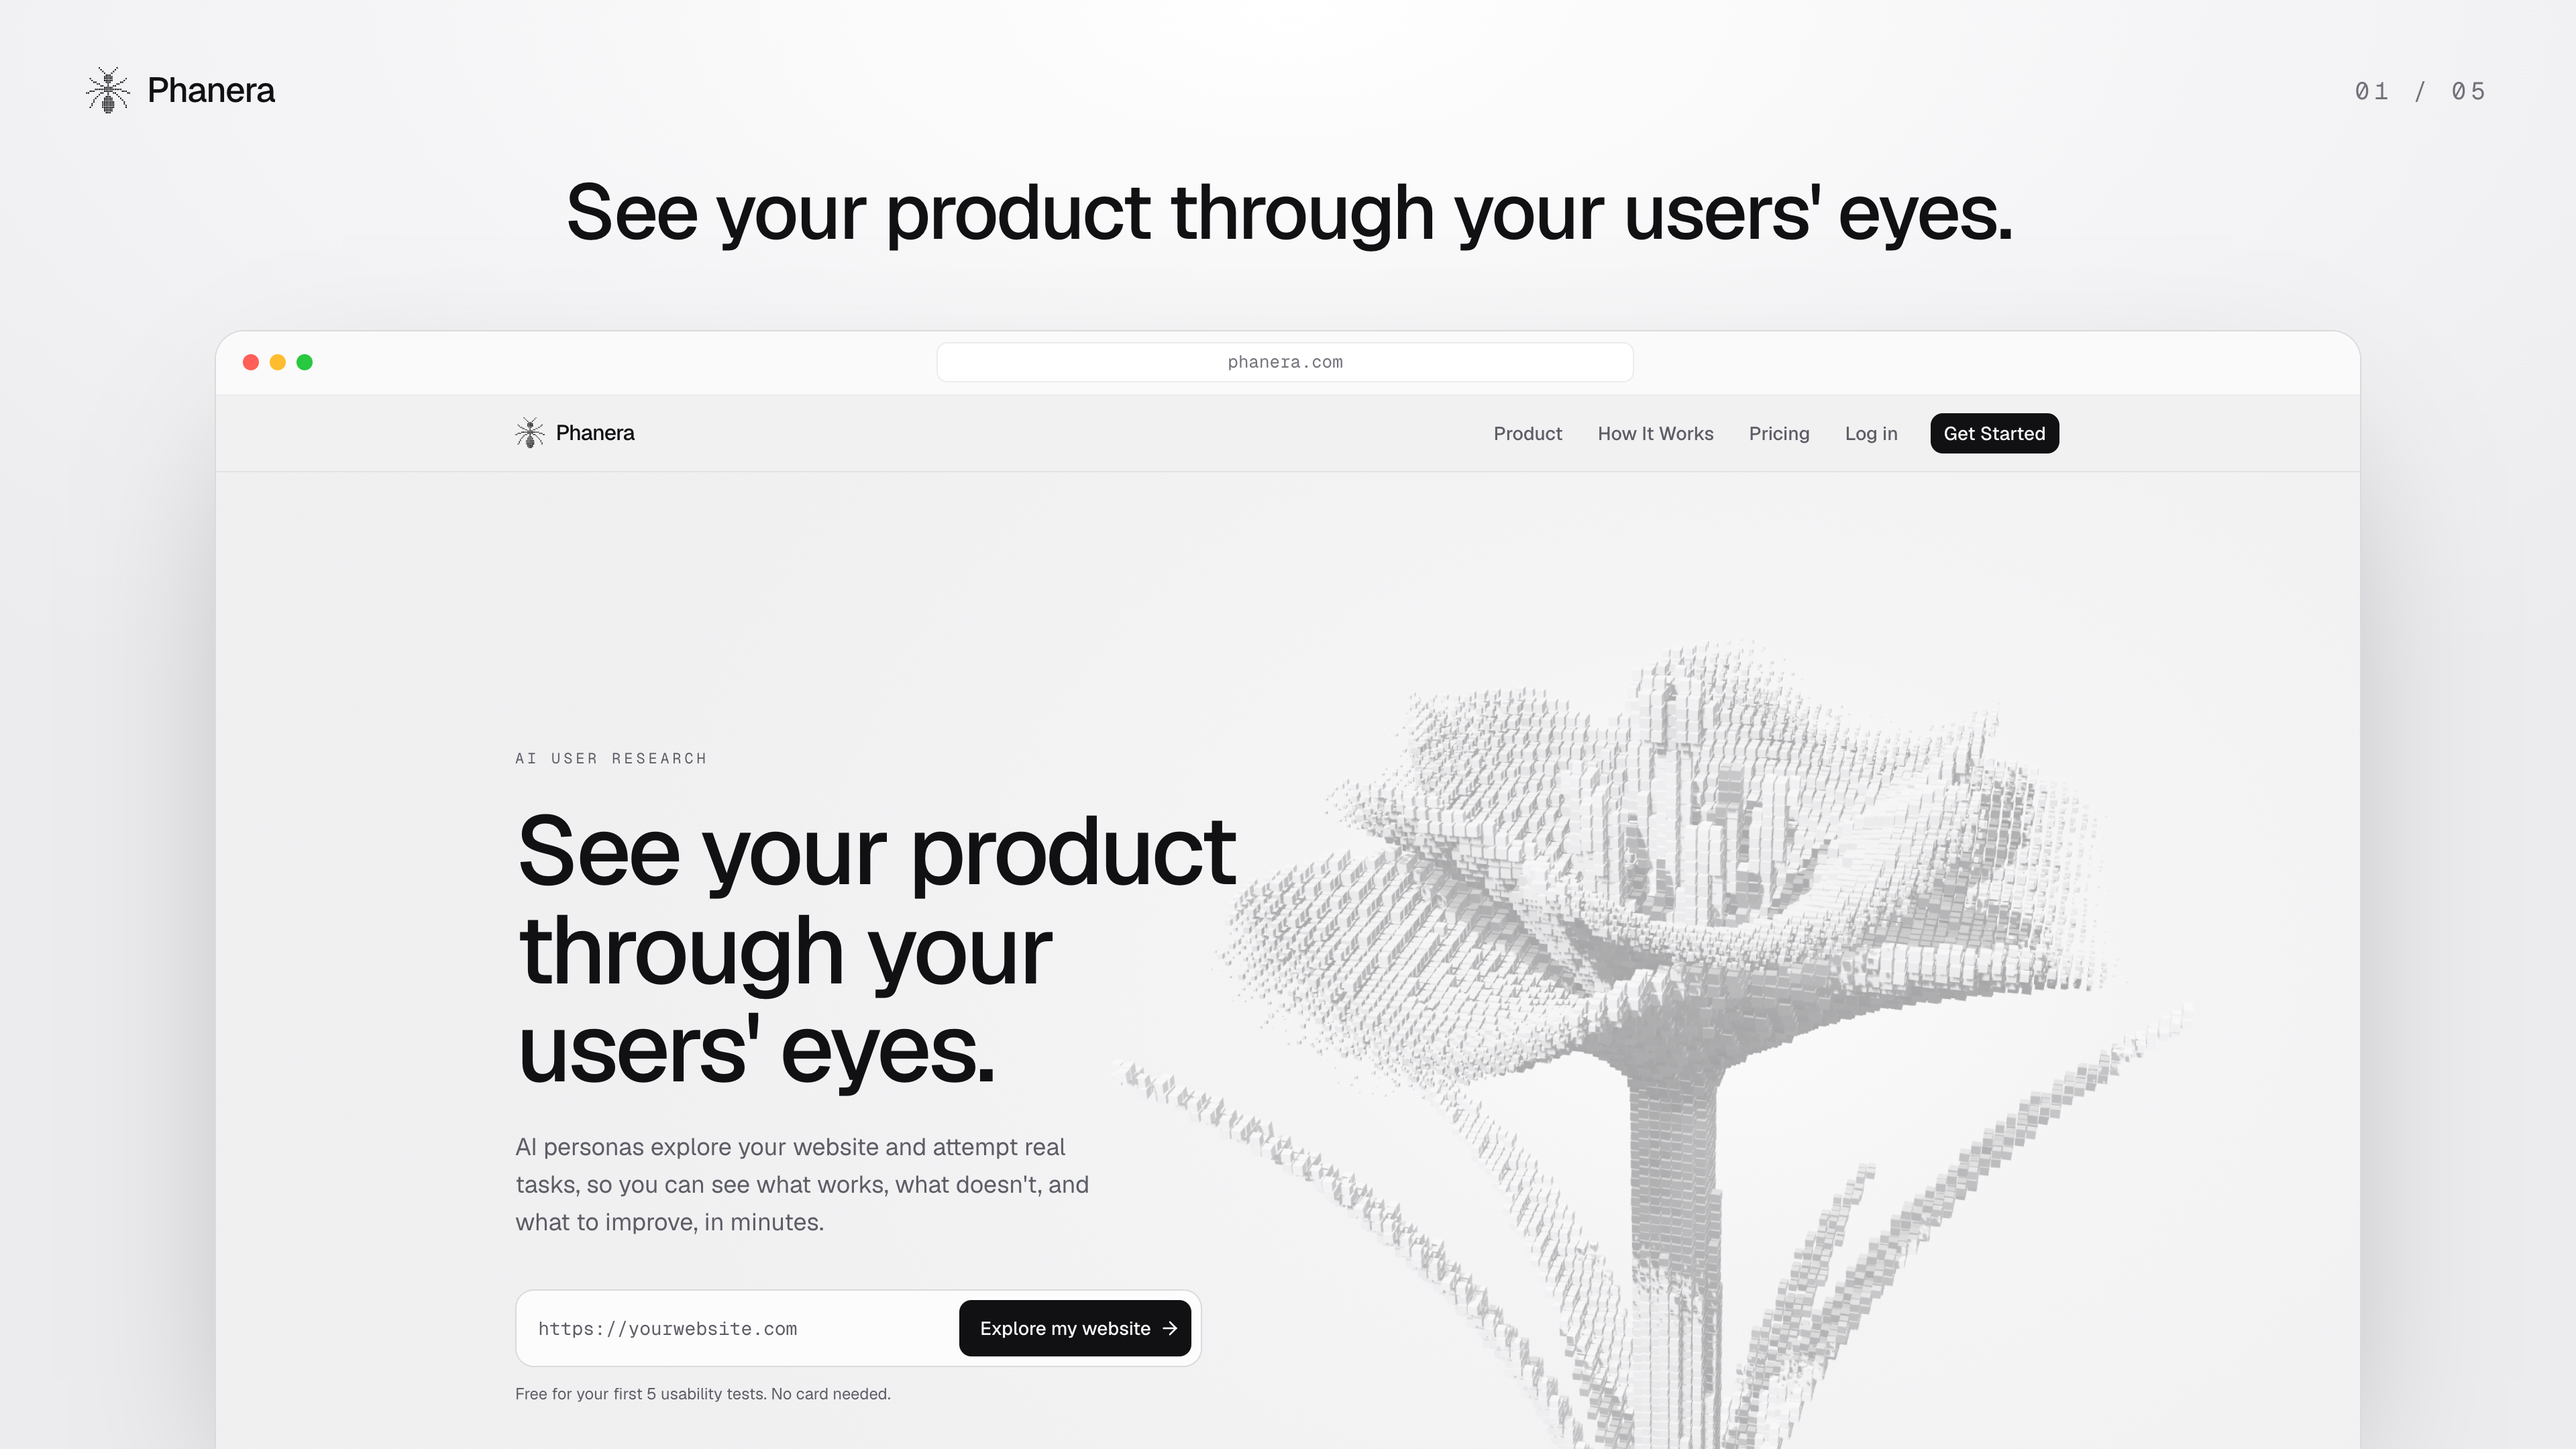
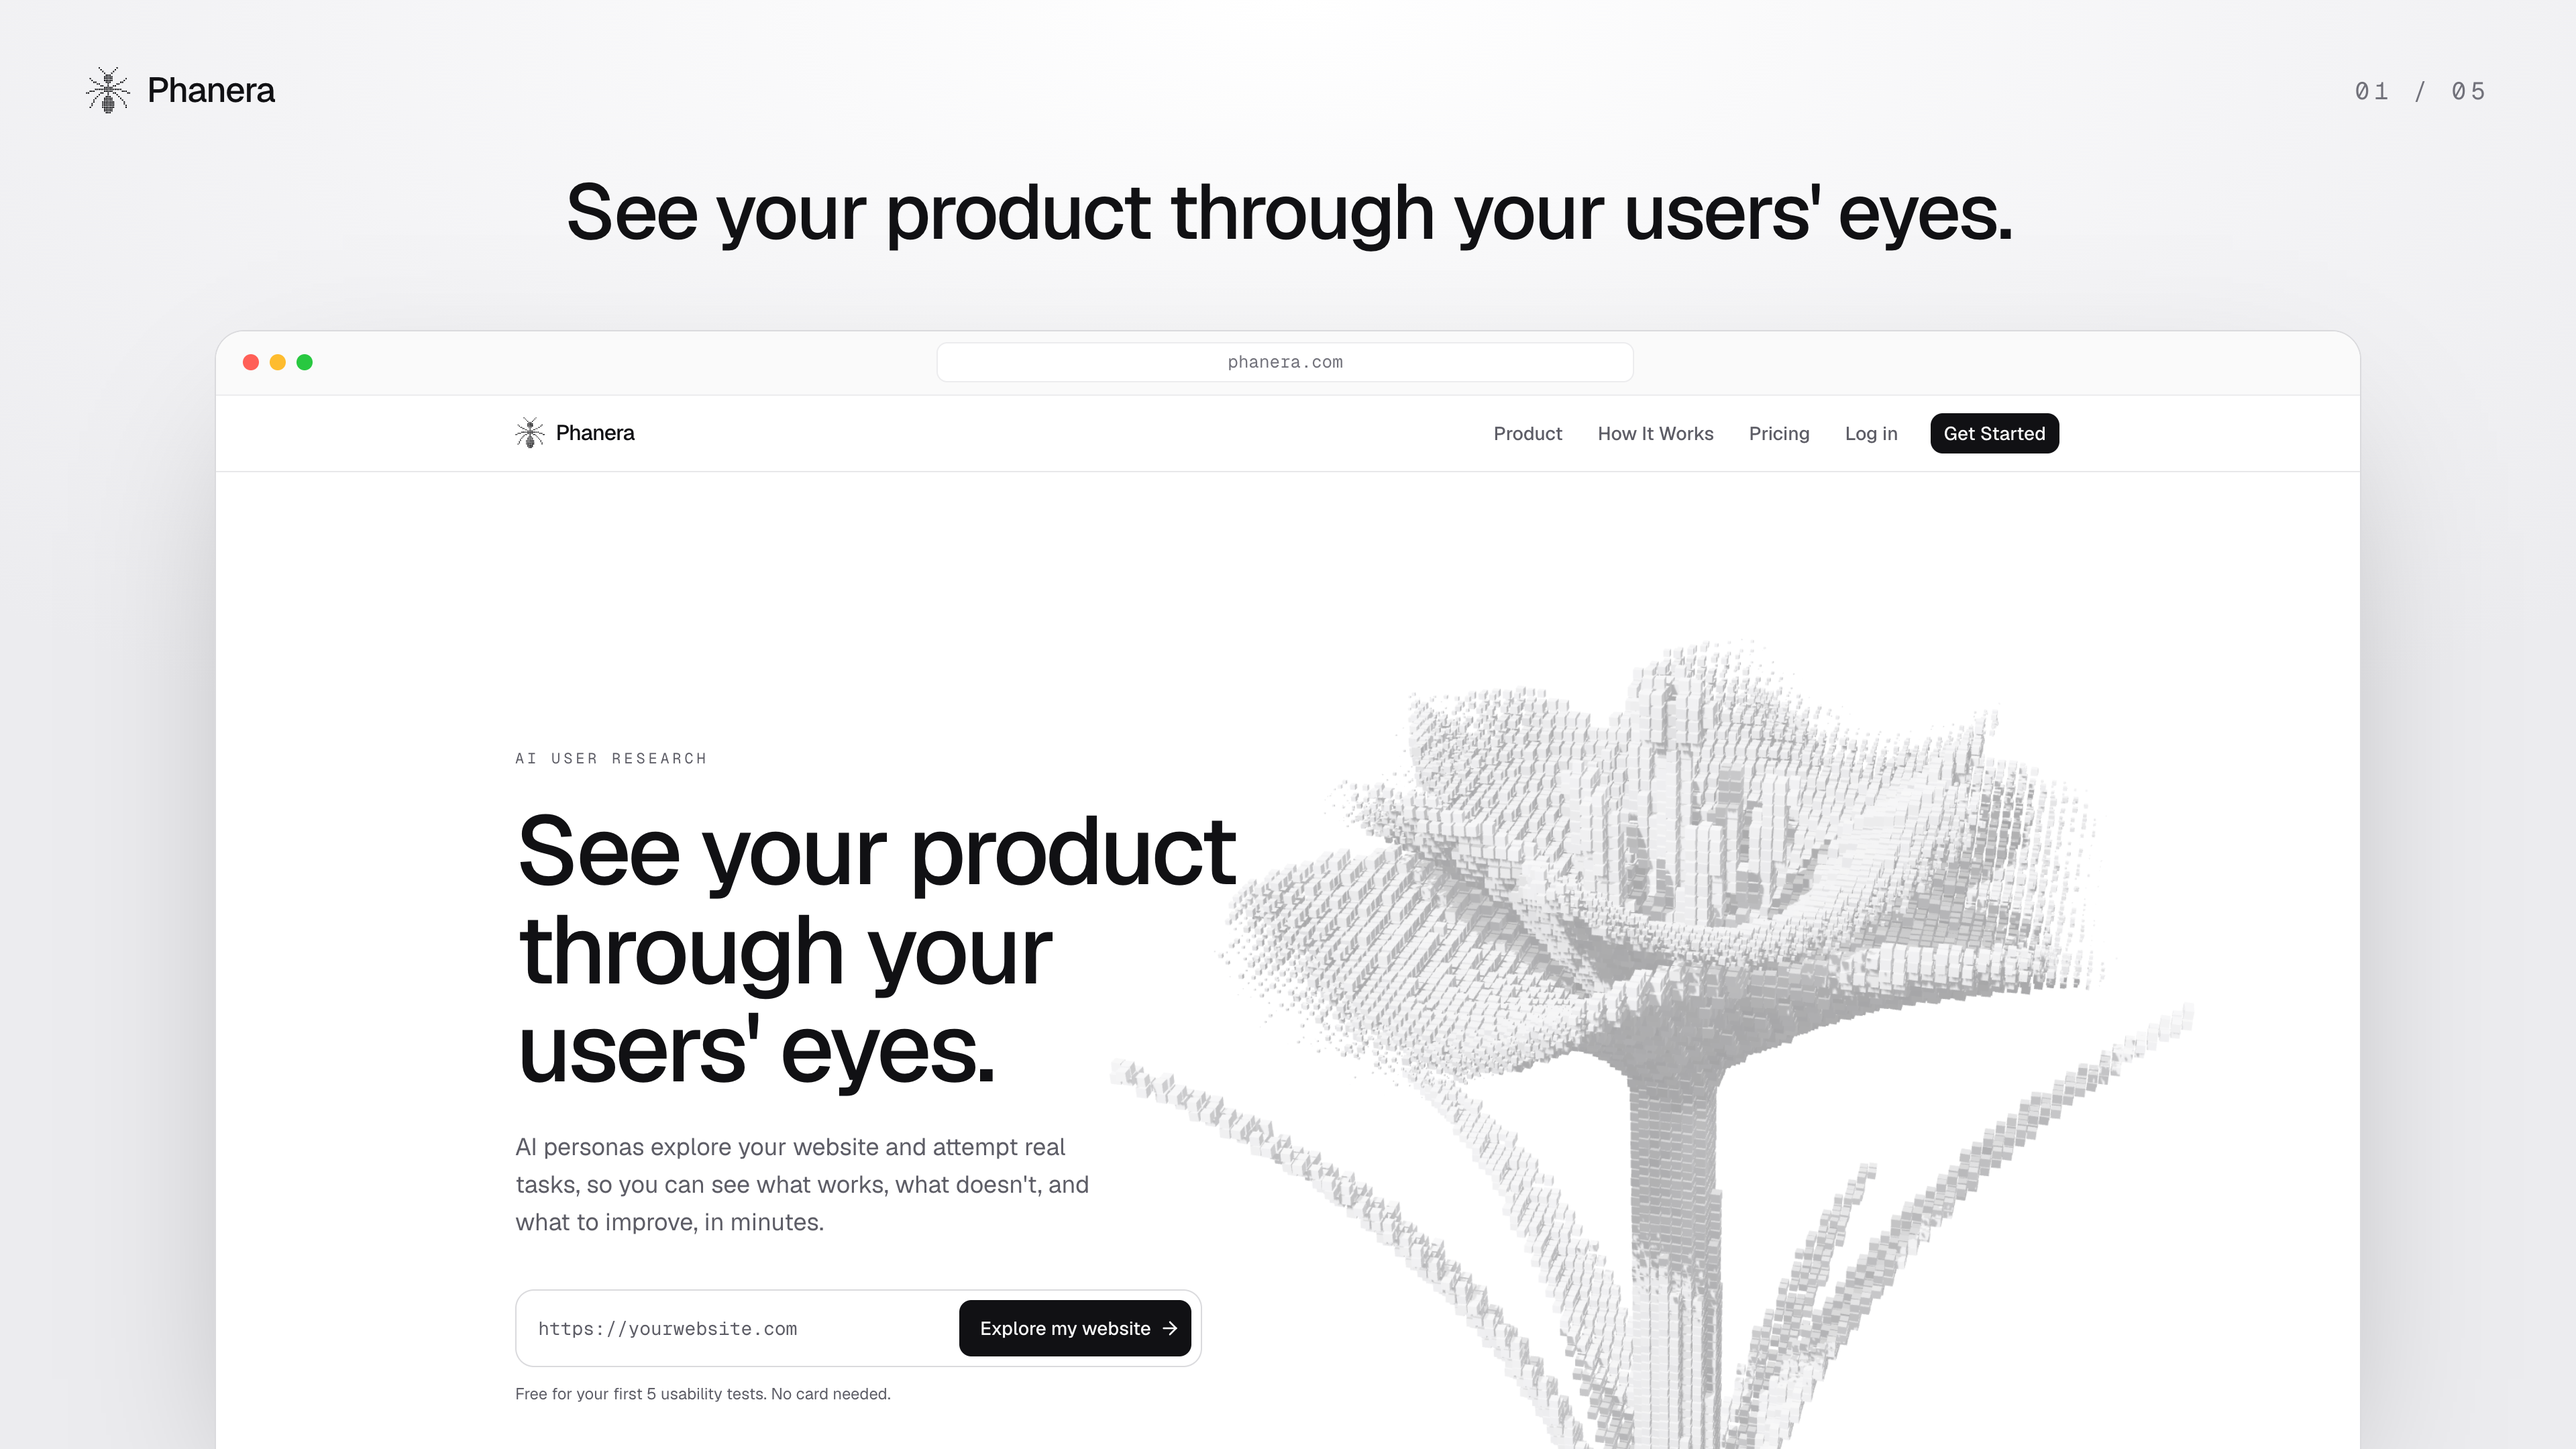
Use acme.com as the URL placeholder; promo thumbnail

diff --git a/src/app/promo/thumbnail/page.tsx b/src/app/promo/thumbnail/page.tsx
@@ -1,0 +1,22 @@
+import { PixelAnt } from "@/components/ants/pixel-ant";
+import { HeroFlower } from "@/components/landing/flower/hero-flower";
+
+/** 1920×1080 thumbnail: logo + name + tagline on the left, the voxel flower on the right. */
+export default function Thumbnail() {
+  return (
+    <div className="relative flex h-[1080px] w-[1920px] items-center overflow-hidden bg-white">
+      <div className="relative z-10 grid gap-8 pl-[150px]">
+        <h1 className="flex items-center gap-6 text-[132px] leading-none font-medium tracking-[-0.04em] text-[#111114]">
+          <PixelAnt className="h-[120px] w-auto" />
+          Phanera
+        </h1>
+        <h2 className="max-w-[760px] text-[56px] leading-[1.1] font-normal tracking-[-0.025em] text-[#5d5d66]">
+          See your product through your users&apos; eyes.
+        </h2>
+      </div>
+      <div className="absolute inset-y-0 right-0 w-[56%]">
+        <HeroFlower />
+      </div>
+    </div>
+  );
+}

diff --git a/src/components/dashboard/url-form.tsx b/src/components/dashboard/url-form.tsx
@@ -39,7 +39,7 @@ export function DiscoveryUrlForm({ defaultUrl = "", cta = "Explore website", aut
           autoFocus={autoFocus}
           inputMode="url"
           spellCheck={false}
-          placeholder="https://yourwebsite.com"
+          placeholder="https://acme.com"
           value={value}
           onChange={(e) => setValue(e.target.value)}
           className="h-10 font-mono"

diff --git a/src/components/landing/explore-form.tsx b/src/components/landing/explore-form.tsx
@@ -50,7 +50,7 @@ export function ExploreForm({ className, id = "explore-url" }: { className?: str
             inputMode="url"
             autoComplete="url"
             spellCheck={false}
-            placeholder="https://yourwebsite.com"
+            placeholder="https://acme.com"
             value={value}
             onChange={(e) => {
               setValue(e.target.value);
